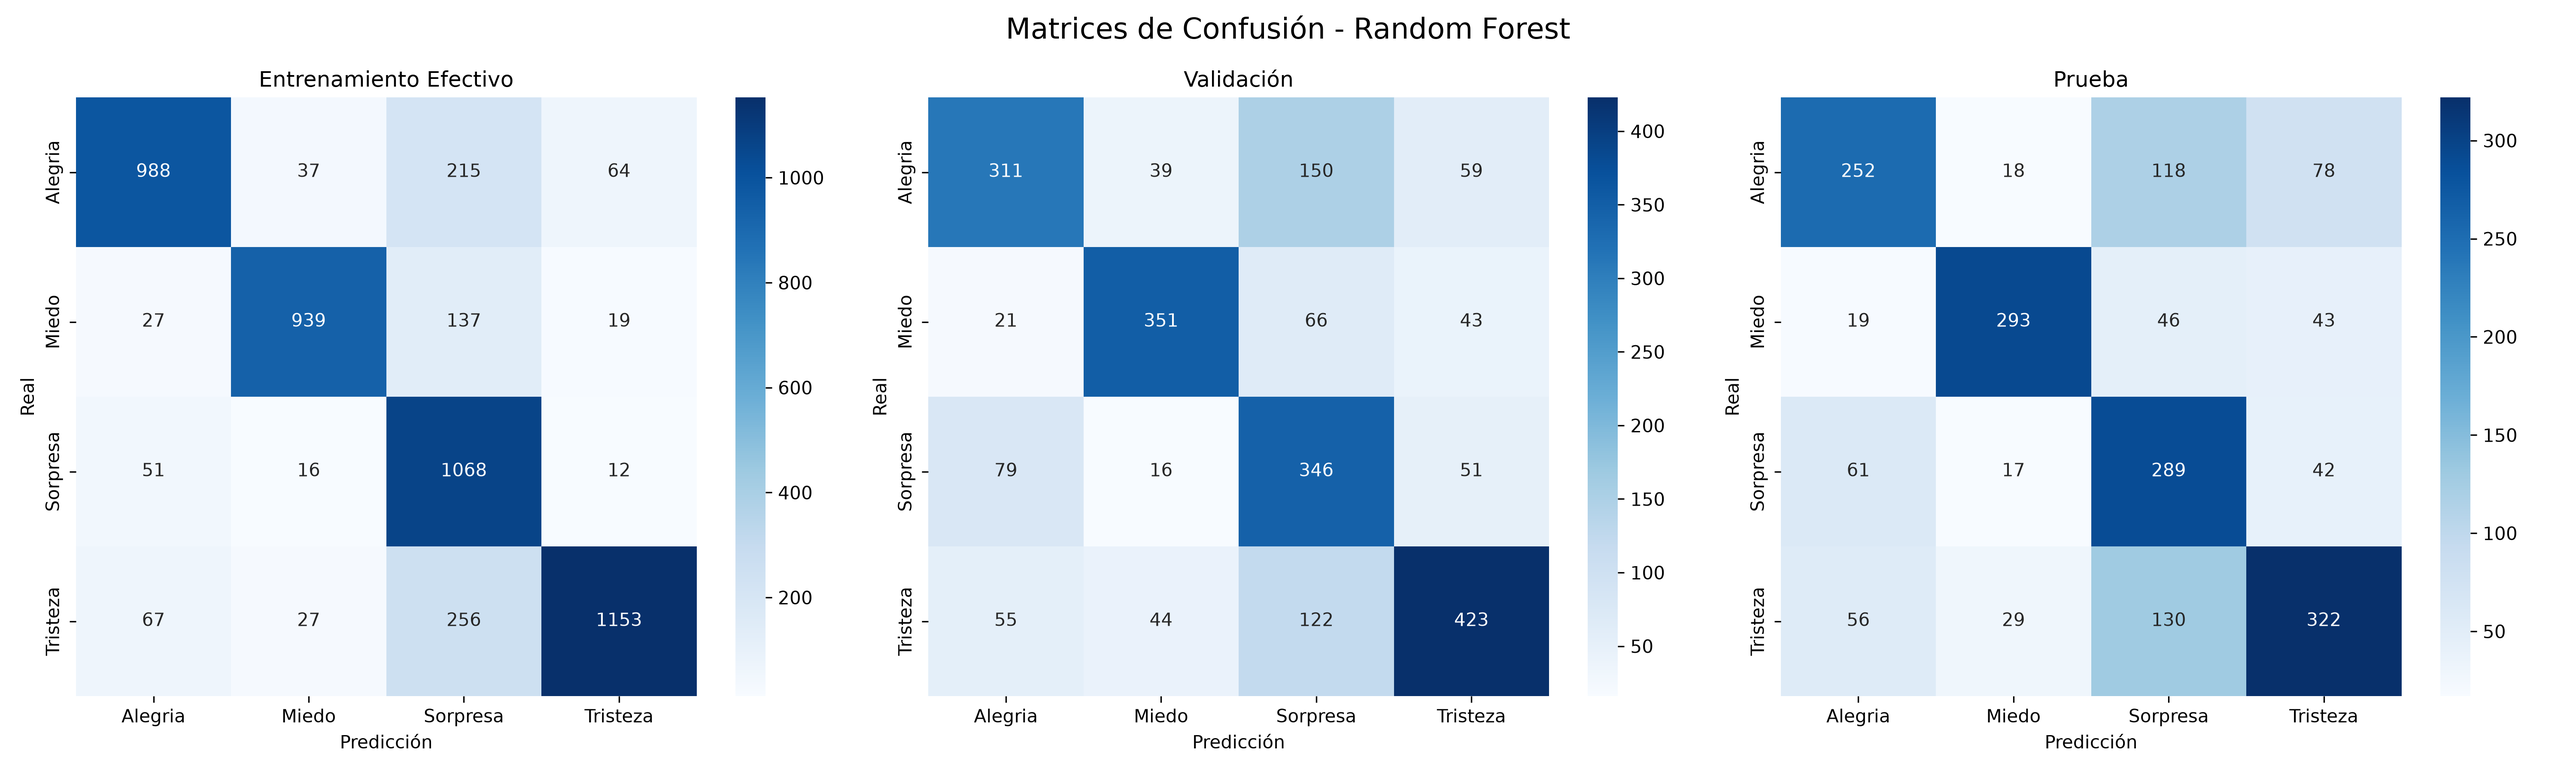
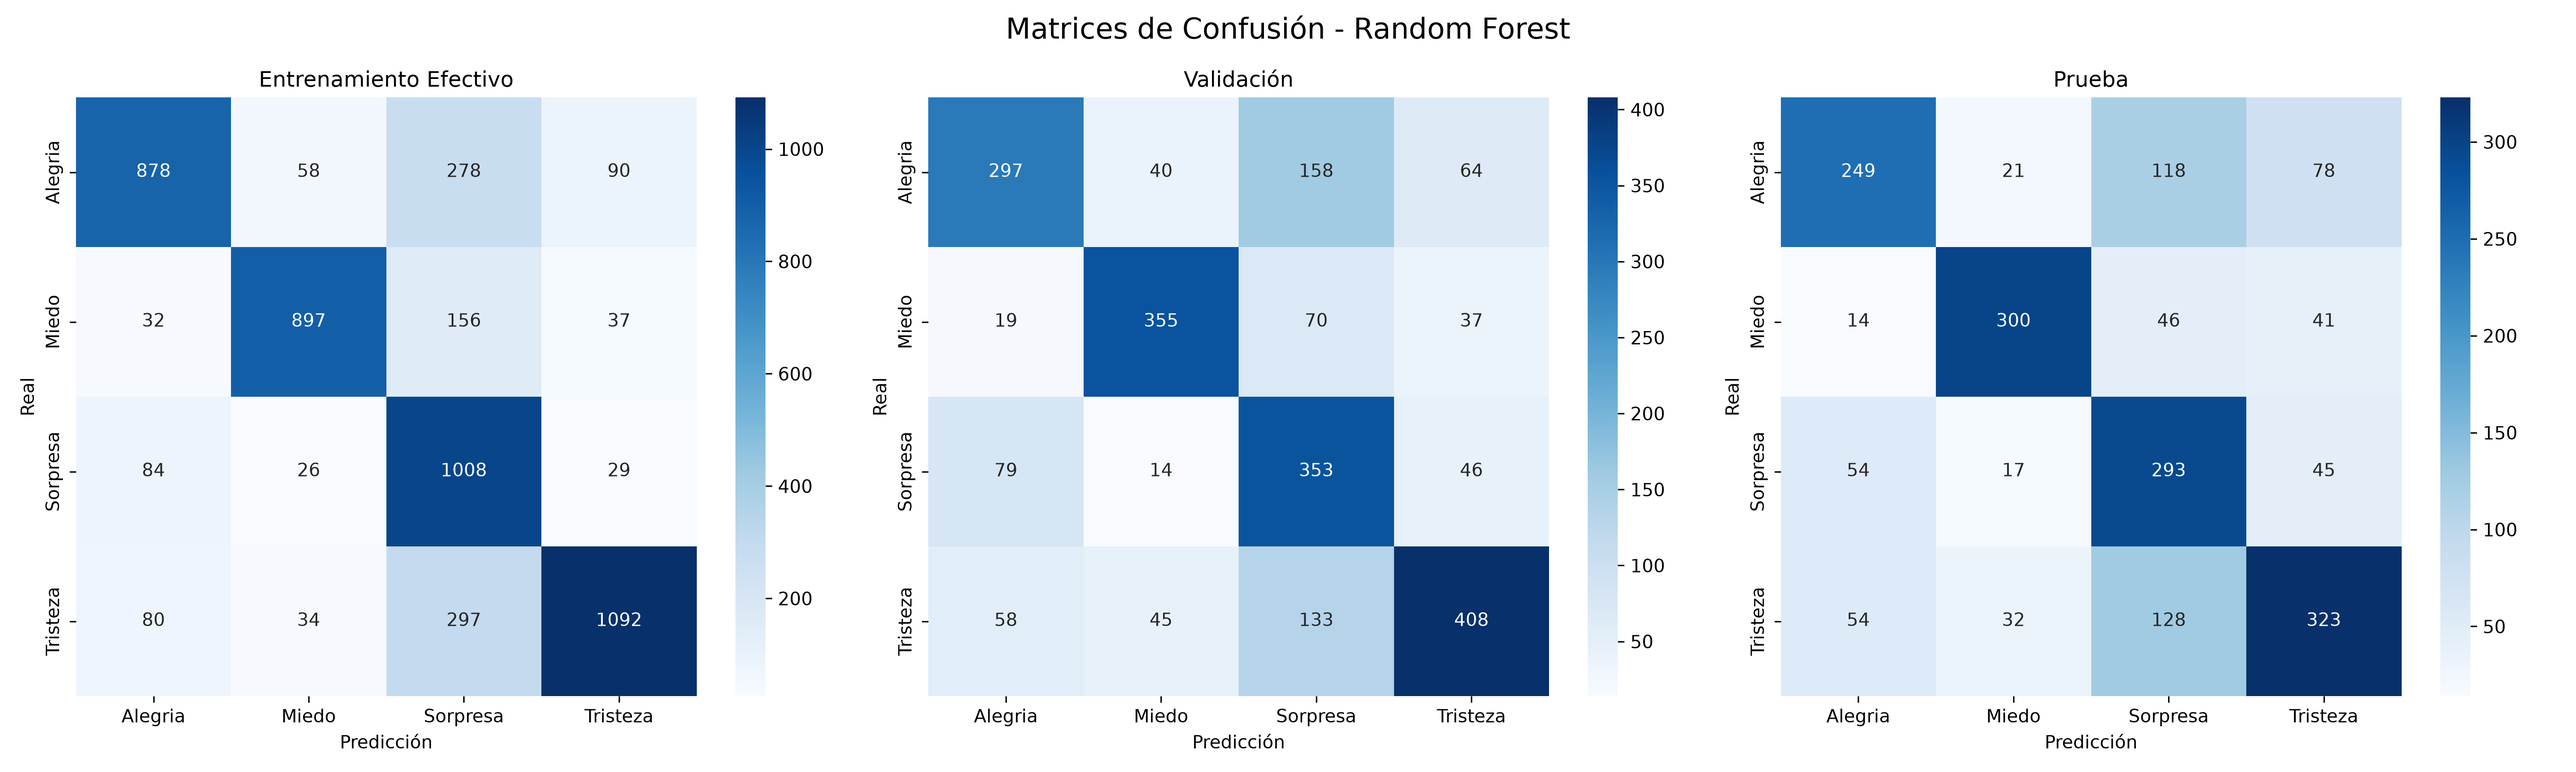
fix: quitar validacion cruzada y modificar reporte de resultados

diff --git a/modelado/tecnicas-clasicas/pipeline.py b/modelado/tecnicas-clasicas/pipeline.py
@@ -6,7 +6,7 @@ import pandas as pd
 # pyrefly: ignore [missing-import]
 import matplotlib.pyplot as plt
 import seaborn as sns
-from sklearn.model_selection import train_test_split, GridSearchCV, StratifiedKFold
+from sklearn.model_selection import train_test_split
 from sklearn.feature_extraction.text import TfidfVectorizer
 from sklearn.svm import SVC
 from sklearn.calibration import CalibratedClassifierCV
@@ -137,22 +137,13 @@ def graficar_matrices_confusion_conjuntas(nombre_modelo, y_train, y_pred_train, 
 
     return nombre_archivo_cm
 
-def evaluar_modelo_grid(nombre_modelo, pipeline, param_grid,
-                        X_train, y_train, X_val, y_val, X_test, y_test,
-                        archivo_reporte, skf):
+def evaluar_modelo(nombre_modelo, pipeline,
+                     X_train, y_train, X_val, y_val, X_test, y_test,
+                     archivo_reporte):
     print(f"   -> Entrenando {nombre_modelo}...")
     
-    if param_grid:
-        print(f"      (Buscando mejores hiperparámetros con GridSearchCV...)")
-        grid = GridSearchCV(pipeline, param_grid, cv=skf, scoring='f1_macro', n_jobs=-1, verbose=1)
-        grid.fit(X_train, y_train)
-        mejor_modelo = grid.best_estimator_
-        mejores_params = grid.best_params_
-        print(f"      Mejores hiperparámetros: {mejores_params}")
-    else:
-        pipeline.fit(X_train, y_train)
-        mejor_modelo = pipeline
-        mejores_params = "Por defecto"
+    pipeline.fit(X_train, y_train)
+    mejor_modelo = pipeline
 
     clases = list(mejor_modelo.classes_)
 
@@ -170,9 +161,6 @@ def evaluar_modelo_grid(nombre_modelo, pipeline, param_grid,
 
     with open(archivo_reporte, 'a', encoding='utf-8') as f:
         f.write(f"## {nombre_modelo}\n\n")
-
-        if param_grid:
-            f.write(f"**Mejores Hiperparámetros Encontrados:** `{mejores_params}`\n\n")
 
         # — Entrenamiento Efectivo (~56%) —
         f.write("### Resultados en el Conjunto de Entrenamiento Efectivo (~56%)\n")
@@ -278,36 +266,26 @@ def ejecutar_pipeline():
             'pipeline': Pipeline([
                 ('tfidf', TfidfVectorizer(ngram_range=(1, 2), max_features=2000, min_df=5, max_df=0.85)),
                 ('clf', CalibratedClassifierCV(
-                    SVC(kernel='linear', class_weight='balanced', random_state=42),
+                    SVC(kernel='linear', C=1, class_weight='balanced', random_state=42),
                     cv=5, method='sigmoid'
                 ))
-            ]),
-            'param_grid': {
-                'clf__estimator__C': [0.1, 1, 10]
-            }
+            ])
         },
         {
             'nombre': 'Random Forest',
             'pipeline': Pipeline([
                 ('tfidf', TfidfVectorizer(ngram_range=(1, 2), max_features=2000, min_df=5, max_df=0.85)),
-                ('clf', RandomForestClassifier(class_weight='balanced', random_state=42))
-            ]),
-            'param_grid': {
-                'clf__max_depth': [10, 20, 30],
-                'clf__min_samples_split': [2, 5, 10]
-            }
+                ('clf', RandomForestClassifier(max_depth=20, min_samples_split=5, class_weight='balanced', random_state=42))
+            ])
         },
         {
             'nombre': 'Naive Bayes',
             'pipeline': Pipeline([
                 ('tfidf', TfidfVectorizer(ngram_range=(1, 2), max_features=2000, min_df=5, max_df=0.85)),
                 ('clf', MultinomialNB())
-            ]),
-            'param_grid': {} # Ejecución normal sin GridSearchCV
+            ])
         }
     ]
-    
-    skf = StratifiedKFold(n_splits=5, shuffle=True, random_state=42)
     
     archivo_reporte = os.path.join(RESULTADOS_DIR, 'reporte_modelos_clasicos.md')
     
@@ -332,17 +310,15 @@ def ejecutar_pipeline():
         f.write(f"| **Total** | **{len(y_train)}** | **{len(y_val)}** | **{len(y_test)}** |\n\n")
         f.write("---\n\n")
     
-    print("5. Entrenamiento y optimización de hiperparámetros...")
+    print("5. Entrenamiento...")
     for conf in configuraciones:
-        evaluar_modelo_grid(
+        evaluar_modelo(
             conf['nombre'], 
             conf['pipeline'], 
-            conf['param_grid'], 
             X_train, y_train,
             X_val, y_val,
             X_test, y_test,
-            archivo_reporte, 
-            skf
+            archivo_reporte
         )
         
     print(f"\nProceso completado. Reporte guardado en: {archivo_reporte}")

diff --git a/modelado/resultados_tecnicas-clasicas/reporte_modelos_clasicos.md b/modelado/resultados_tecnicas-clasicas/reporte_modelos_clasicos.md
@@ -23,8 +23,6 @@
 
 ## SVM
 
-**Mejores Hiperparámetros Encontrados:** `{'clf__estimator__C': 1}`
-
 ### Resultados en el Conjunto de Entrenamiento Efectivo (~56%)
 - **Accuracy:** 0.8008
 - **Precision (macro):** 0.8016
@@ -120,88 +118,86 @@ weighted avg       0.65      0.64      0.65      1813
 
 ## Random Forest
 
-**Mejores Hiperparámetros Encontrados:** `{'clf__max_depth': 30, 'clf__min_samples_split': 5}`
-
 ### Resultados en el Conjunto de Entrenamiento Efectivo (~56%)
-- **Accuracy:** 0.8172
-- **Precision (macro):** 0.8387
-- **Recall (macro):** 0.8232
-- **F1-Score (macro):** 0.8207
+- **Accuracy:** 0.7634
+- **Precision (macro):** 0.7890
+- **Recall (macro):** 0.7695
+- **F1-Score (macro):** 0.7676
 
 ```text
               precision    recall  f1-score   support
 
-     Alegria       0.87      0.76      0.81      1304
-       Miedo       0.92      0.84      0.88      1122
-    Sorpresa       0.64      0.93      0.76      1147
-    Tristeza       0.92      0.77      0.84      1503
+     Alegria       0.82      0.67      0.74      1304
+       Miedo       0.88      0.80      0.84      1122
+    Sorpresa       0.58      0.88      0.70      1147
+    Tristeza       0.88      0.73      0.79      1503
 
-    accuracy                           0.82      5076
-   macro avg       0.84      0.82      0.82      5076
-weighted avg       0.85      0.82      0.82      5076
+    accuracy                           0.76      5076
+   macro avg       0.79      0.77      0.77      5076
+weighted avg       0.80      0.76      0.77      5076
 
 ```
 
 **AUC ROC (Entrenamiento):**
-- Macro-average: 0.9718
-- Alegria: 0.9678
-- Miedo: 0.9841
-- Sorpresa: 0.9641
-- Tristeza: 0.9710
+- Macro-average: 0.9489
+- Alegria: 0.9415
+- Miedo: 0.9718
+- Sorpresa: 0.9345
+- Tristeza: 0.9476
 
 ### Resultados en el Conjunto de Validación (~24%)
-- **Accuracy:** 0.6576
-- **Precision (macro):** 0.6719
-- **Recall (macro):** 0.6615
-- **F1-Score (macro):** 0.6607
+- **Accuracy:** 0.6494
+- **Precision (macro):** 0.6668
+- **Recall (macro):** 0.6551
+- **F1-Score (macro):** 0.6531
 
 ```text
               precision    recall  f1-score   support
 
-     Alegria       0.67      0.56      0.61       559
-       Miedo       0.78      0.73      0.75       481
-    Sorpresa       0.51      0.70      0.59       492
-    Tristeza       0.73      0.66      0.69       644
+     Alegria       0.66      0.53      0.59       559
+       Miedo       0.78      0.74      0.76       481
+    Sorpresa       0.49      0.72      0.59       492
+    Tristeza       0.74      0.63      0.68       644
 
-    accuracy                           0.66      2176
-   macro avg       0.67      0.66      0.66      2176
-weighted avg       0.68      0.66      0.66      2176
+    accuracy                           0.65      2176
+   macro avg       0.67      0.66      0.65      2176
+weighted avg       0.67      0.65      0.65      2176
 
 ```
 
 **AUC ROC (Validación):**
-- Macro-average: 0.8535
-- Alegria: 0.8138
-- Miedo: 0.9012
-- Sorpresa: 0.8359
-- Tristeza: 0.8618
+- Macro-average: 0.8507
+- Alegria: 0.8117
+- Miedo: 0.8957
+- Sorpresa: 0.8310
+- Tristeza: 0.8633
 
 ### Resultados en el Conjunto de Prueba y Evaluación (20%)
-- **Accuracy:** 0.6376
-- **Precision (macro):** 0.6575
-- **Recall (macro):** 0.6444
-- **F1-Score (macro):** 0.6440
+- **Accuracy:** 0.6426
+- **Precision (macro):** 0.6615
+- **Recall (macro):** 0.6501
+- **F1-Score (macro):** 0.6484
 
 ```text
               precision    recall  f1-score   support
 
-     Alegria       0.65      0.54      0.59       466
-       Miedo       0.82      0.73      0.77       401
-    Sorpresa       0.50      0.71      0.58       409
+     Alegria       0.67      0.53      0.59       466
+       Miedo       0.81      0.75      0.78       401
+    Sorpresa       0.50      0.72      0.59       409
     Tristeza       0.66      0.60      0.63       537
 
     accuracy                           0.64      1813
-   macro avg       0.66      0.64      0.64      1813
+   macro avg       0.66      0.65      0.65      1813
 weighted avg       0.66      0.64      0.64      1813
 
 ```
 
 **AUC ROC (Prueba):**
-- Macro-average: 0.8502
-- Alegria: 0.8216
-- Miedo: 0.9065
-- Sorpresa: 0.8336
-- Tristeza: 0.8381
+- Macro-average: 0.8487
+- Alegria: 0.8231
+- Miedo: 0.9054
+- Sorpresa: 0.8303
+- Tristeza: 0.8349
 
 ### Gráficas de Evaluación Conjuntas
 
